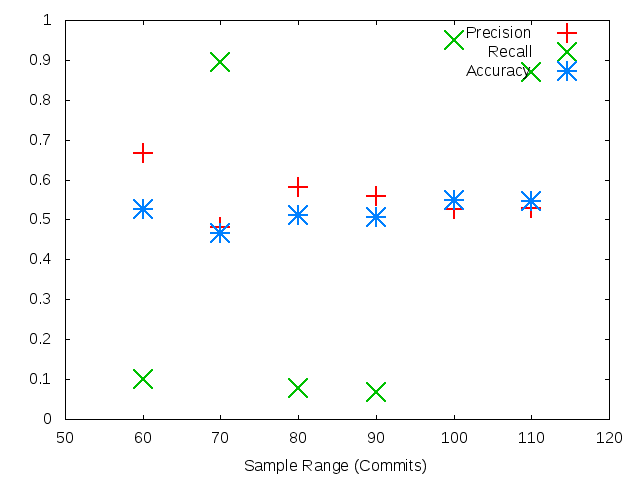
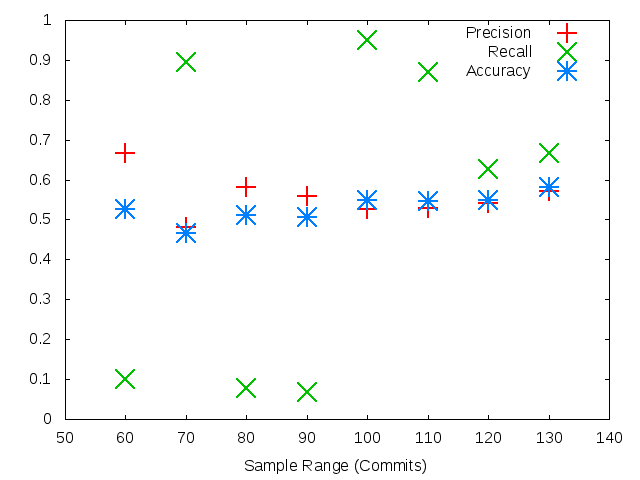
Updated images and added experiment 3
Fixed images that were already in the paper that were inconsistent. The rane is now from 60-130 with intervals of 10 standard for each experiment in the first two experiment sections. Also added the images for experiment 3.

diff --git a/src/experiments.tex b/src/experiments.tex
@@ -398,7 +398,7 @@ The experiment is setup to have a set of parameters that can be set. These param
 
 %TODO fill out details of experiments
 
-For this experiment the variable was the size of the \gls{swr} in commits. In \autoref{tab:window_range_experiment_features}, the features used by the prediction model are outlined. Features with a mark, $\bullet$, are used while those without are not. In this experiment only the Short $\Delta_{freq}$ is not used while all the rest are.
+For this experiment the variable was the size of the \gls{swr} in commits. In \autoref{tab:svm_window_range_experiment_features}, the features used by the prediction model are outlined. Features with a mark, $\bullet$, are used while those without are not. In this experiment only the Short $\Delta_{freq}$ is not used while all the rest are.
 
 % TODO use a better way of showing this like a table with dots.
 \begin{table}[h]
@@ -411,7 +411,7 @@ For this experiment the variable was the size of the \gls{swr} in commits. In \a
         $\bullet$ & $\bullet$ & $\bullet$ & $\bullet$ & & $\bullet$ & $\bullet$ & $\bullet$ \\ \hline
     \end{tabular}
     \caption{\gls{swr} Experiment Features}
-    \label{tab:window_range_experiment_features}
+    \label{tab:svm_window_range_experiment_features}
 \end{center}
 
 \end{table}
@@ -426,7 +426,7 @@ For this experiment the variable was the size of the \gls{swr} in commits. In \a
 % SVM gamma: 8
 % SVM esp: 0.001
 
-As noted above the independent variable for this experiment is the \gls{swr}. The remaining parameters for the experiment are constant for each test. The parameters for this experiment are outlined in \autoref{tab:window_range_experiment_setup}.
+As noted above the independent variable for this experiment is the \gls{swr}. The remaining parameters for the experiment are constant for each test. The parameters for this experiment are outlined in \autoref{tab:svm_window_range_experiment_setup}.
 
 \begin{table}[h]
 \begin{center}
@@ -438,7 +438,7 @@ As noted above the independent variable for this experiment is the \gls{swr}. Th
         No & No & Yes & $100\%$ & 5 & 10 & 8 \\ \hline
     \end{tabular}
     \caption{\gls{swr} Experiment Setup}
-    \label{tab:window_range_experiment_setup}
+    \label{tab:svm_window_range_experiment_setup}
 \end{center}
 
 \end{table}
@@ -465,7 +465,6 @@ The results for the experiments are shown with the precision, recall and accurac
     \centering
 
     \begin{minipage}[b]{0.45\linewidth}
-        % add 120, 130
         \includegraphics[width=1.0\textwidth]{images/svm/test_1/fresco_sample_range}
         \caption{\gls{swr} for fresco using \gls{svm}}
         \label{fig:test_1_fresco_svm}
@@ -480,7 +479,6 @@ The results for the experiments are shown with the precision, recall and accurac
 
 \begin{figure}[h]
     \centering
-    %TODO add 130
         \includegraphics[width=0.45\textwidth]{images/svm/test_1/deeplearning4j_sample_range}
     \caption{\gls{swr} for deeplearning4j using \gls{svm}}
     \label{fig:test_1_deeplearning4j_svm}
@@ -567,7 +565,6 @@ Finally, the recall for the prediction is very unstable. While both accuracy and
 
 % \begin{figure}[!ht]
 %     \centering
-
 %     \begin{minipage}[b]{0.45\linewidth}
 %         \includegraphics[width=1.0\textwidth]{images/svm/test_2/acra_sample_range}
 %         \caption{\gls{swr} for acra}
@@ -604,7 +601,96 @@ Finally, the recall for the prediction is very unstable. While both accuracy and
 %     \label{fig:test_2_deeplearning4j}
 % \end{figure}
 
+\subsection{Feature Set Experiments}
 
+
+\begin{table}[h]
+\begin{center}
+
+    \begin{tabular}{|c|c|c|c|c|c|cc|}
+        \hline
+        Extended & Over & Under & Sample & Window & \gls{swr} & SVM & \\
+        Window & Sampling & Sampling & Rate & Offset &  & C & gamma \\ \hline
+        No & No & Yes & $100\%$ & 5 & 90 & 10 & 8 \\ \hline
+    \end{tabular}
+    \caption{\gls{swr} Experiment Setup}
+    \label{tab:svm_feature_experiment_setup}
+\end{center}
+
+\end{table}
+
+%% TODO create a table to show this information.
+% Extend Window: No% Sample by Commit Range: Yes
+% Over Sampling: No
+% Under Sampling: Yes
+% Sample Rate: 100%
+% Window Offset: 5
+% SVM c: 10
+% SVM gamma: 8
+% SVM esp: 0.001
+
+%The parameter for this experiment are outlined in \autoref{tab:window_range_experiment_setup}. The major difference between the \gls{svm} and this experiment, \gls{rf}, is the parameters used for the \gls{rf}. This allows for a fairly clear comparison between these two methods with the given independent variable, sample window size.
+
+\begin{table}[h]
+\begin{center}
+
+    \begin{tabular}{|c|c|c|c|c|c|c|c|c|}
+        \hline
+        Feature & Com & Sig & Name & $\Delta_{freq}$ & Short & $t_{i} - t_{i-1}$ & Length & Has \\
+        Set & & & & & $\Delta_{freq}$ & & & Next \\ \hline
+        1 & $\bullet$ & $\bullet$ & $\bullet$ & $\bullet$ & & $\bullet$ & $\bullet$ & $\bullet$ \\
+        2 & $\bullet$ & $\bullet$ & $\bullet$ & $\bullet$ & $\bullet$ & & $\bullet$ & $\bullet$ \\
+        3 & & $\bullet$ & $\bullet$ & $\bullet$ & & $\bullet$ & & $\bullet$ \\
+        4 & $\bullet$ & $\bullet$ & $\bullet$ & $\bullet$ & & $\bullet$ & & $\bullet$ \\
+        5 & $\bullet$ & $\bullet$ & $\bullet$ & $\bullet$ & & & & $\bullet$ \\ \hline
+        %6 & $\bullet$ & & & & $\bullet$ & $\bullet$ & $\bullet$ & \\ 
+    \end{tabular}
+    \caption{\gls{swr} Experiment Features}
+    \label{tab:svm_feature_experiment_sets}
+\end{center}
+
+\end{table}
+
+%The results for the experiments with the independent variable sample window size using random forest were mixed. Both acra in \autoref{fig:test_1_acra_rf} and dagger in \autoref{fig:test_1_dagger_rf} have strong prediction results. While the remainder of the projects; fresco in \autoref{fig:test_1_fresco_rf}, storm in \autoref{fig:test_1_storm_rf} and deeplearning4j in \autoref{fig:test_1_deeplearning4j_rf} did not perform as well. While the accuracy and precision were lower, the recall was very high.
+
+\begin{figure}[h]
+    \centering
+
+    \begin{minipage}[b]{0.45\linewidth}
+        \includegraphics[width=1.0\textwidth]{images/svm/test_3/acra_sample_range}
+        \caption{Feature for acra using \gls{svm}}
+        \label{fig:test_3_acra_svm}
+    \end{minipage}
+\quad
+    \begin{minipage}[b]{0.45\linewidth}
+        \includegraphics[width=1.0\textwidth]{images/svm/test_3/dagger_sample_range}
+        \caption{Feature for dagger using \gls{svm}}
+        \label{fig:test_3_dagger_svm}
+    \end{minipage}
+\end{figure}
+
+\begin{figure}[h]
+    \centering
+
+    \begin{minipage}[b]{0.45\linewidth}
+        \includegraphics[width=1.0\textwidth]{images/svm/test_3/fresco_sample_range}
+        \caption{Feature for fresco using \gls{svm}}
+        \label{fig:test_3_fresco_svm}
+    \end{minipage}
+\quad
+    \begin{minipage}[b]{0.45\linewidth}
+        \includegraphics[width=1.0\textwidth]{images/svm/test_3/storm_sample_range}
+        \caption{Feature for storm using \gls{svm}}
+        \label{fig:test_3_storm_svm}
+    \end{minipage}
+\end{figure}
+
+\begin{figure}[h]
+    \centering
+        \includegraphics[width=0.45\textwidth]{images/svm/test_3/deeplearning4j_sample_range}
+    \caption{Feature for deeplearning4j using \gls{svm}}
+    \label{fig:test_3_deeplearning4j_svm}
+\end{figure}
 
 % TODO add a few more experiments.
 
@@ -617,6 +703,7 @@ Finally, the recall for the prediction is very unstable. While both accuracy and
 \subsection{Factor}
 
 \subsection{Window Range Experiments}
+\label{sec:rf_swr_experiment}
 
 The independent variable for this set of experiments is the sample window size measured in commits. The candidate features are outlined in \autoref{tab:window_range_experiment_features}. Is the same as the first \gls{svm} experiment the candidate feature set.
 
@@ -645,7 +732,7 @@ The independent variable for this set of experiments is the sample window size m
 % SVM gamma: 8
 % SVM esp: 0.001
 
-The parameter for this experiment are outlined in \autoref{tab:window_range_experiment_setup}. The major difference between the \gls{svm} and this experiment, \gls{rf}, is the parameters used for the \gls{rf}. This allows for a fairly clear comparison between these two methods with the given independent variable, sample window size.
+The parameter for this experiment are outlined in \autoref{tab:rf_window_range_experiment_setup}. The major difference between the \gls{svm} and this experiment, \gls{rf}, is the parameters used for the \gls{rf}. This allows for a fairly clear comparison between these two methods with the given independent variable, sample window size.
 
 \begin{table}[h]
 \begin{center}
@@ -657,7 +744,7 @@ The parameter for this experiment are outlined in \autoref{tab:window_range_expe
         No & No & Yes & $100\%$ & 5 & 10000 \\ \hline
     \end{tabular}
     \caption{\gls{swr} Experiment Setup}
-    \label{tab:window_range_experiment_setup}
+    \label{tab:rf_window_range_experiment_setup}
 \end{center}
 
 \end{table}
@@ -668,7 +755,6 @@ The results for the experiments with the independent variable sample window size
     \centering
 
     \begin{minipage}[b]{0.45\linewidth}
-        % TODO add 130
         \includegraphics[width=1.0\textwidth]{images/rf/test_1/acra_sample_range}
         \caption{\gls{swr} for acra using \gls{rf}}
         \label{fig:test_1_acra_rf}
@@ -685,14 +771,12 @@ The results for the experiments with the independent variable sample window size
     \centering
 
     \begin{minipage}[b]{0.45\linewidth}
-        % TODO add 60
         \includegraphics[width=1.0\textwidth]{images/rf/test_1/fresco_sample_range}
         \caption{\gls{swr} for fresco using \gls{rf}}
         \label{fig:test_1_fresco_rf}
     \end{minipage}
 \quad
     \begin{minipage}[b]{0.45\linewidth}
-        % TODO add 60
         \includegraphics[width=1.0\textwidth]{images/rf/test_1/storm_sample_range}
         \caption{\gls{swr} for storm using \gls{rf}}
         \label{fig:test_1_storm_rf}
@@ -706,6 +790,100 @@ The results for the experiments with the independent variable sample window size
     \label{fig:test_1_deeplearning4j_rf}
 \end{figure}
 
+
+\subsection{Feature Set Experiments}
+
+\begin{table}[h]
+\begin{center}
+
+    \begin{tabular}{|c|c|c|c|c|c|c|}
+        \hline
+        Extended & Over & Under & Sample & Window & \gls{swr} & \gls{rf} \\
+        Window & Sampling & Sampling & Rate & Offset &  & Size \\ \hline
+        No & No & Yes & $100\%$ & 5 & 90 & 10000 \\ \hline
+    \end{tabular}
+    \caption{Candidate Feature Experiment Setup}
+    \label{tab:rf_feature_experiment_setup}
+\end{center}
+
+\end{table}
+
+%% TODO create a table to show this information.
+% Extend Window: No% Sample by Commit Range: Yes
+% Over Sampling: No
+% Under Sampling: Yes
+% Sample Rate: 100%
+% Window Offset: 5
+% SVM c: 10
+% SVM gamma: 8
+% SVM esp: 0.001
+
+%The parameter for this experiment are outlined in \autoref{tab:window_range_experiment_setup}. The major difference between the \gls{svm} and this experiment, \gls{rf}, is the parameters used for the \gls{rf}. This allows for a fairly clear comparison between these two methods with the given independent variable, sample window size.
+
+This experiment uses different sets of candidate feature to test to explore the available features. The remaining variables were kept constant to allow for the candidate feature sets to be viewed in isolation. These constants are provided in \autoref{rf_feature_experiment_setup}. The value of $90$ for \gls{swr} was selected based on the value being in the middle of the range experimented on for the previous experiment. The remaining variables are kept the same as the previous experiment in \autoref{sec:rf_swr_experiment}. 
+
+The candidate feature sets are outlined in \autoref{tab:rf_feature_experiment_sets}. Each set is assigned an index value to allow for easier reference later on. For the remainder of this section the experiment sets will be referenced using the assigned index. Therefore if feature set 3 is referenced then that refers to the candidate feature set in the third row.
+
+\begin{table}[h]
+\begin{center}
+
+    \begin{tabular}{|c|c|c|c|c|c|c|c|c|}
+        \hline
+        Feature & Com & Sig & Name & $\Delta_{freq}$ & Short & $t_{i} - t_{i-1}$ & Length & Has \\
+        Set & & & & & $\Delta_{freq}$ & & & Next \\ \hline
+        1 & $\bullet$ & $\bullet$ & $\bullet$ & $\bullet$ & & $\bullet$ & $\bullet$ & $\bullet$ \\
+        2 & $\bullet$ & $\bullet$ & $\bullet$ & $\bullet$ & $\bullet$ & & $\bullet$ & $\bullet$ \\
+        3 & & $\bullet$ & $\bullet$ & $\bullet$ & & $\bullet$ & & $\bullet$ \\
+        4 & $\bullet$ & $\bullet$ & $\bullet$ & $\bullet$ & & $\bullet$ & & $\bullet$ \\
+        5 & $\bullet$ & $\bullet$ & $\bullet$ & $\bullet$ & & & & $\bullet$ \\ \hline
+        %6 & $\bullet$ & & & & $\bullet$ & $\bullet$ & $\bullet$ & \\ 
+    \end{tabular}
+    \caption{Candidate Feature Sets}
+    \label{tab:rf_feature_experiment_sets}
+\end{center}
+
+\end{table}
+
+Generally the experiment results were not particularly strong. In \autoref{fig:test_3_acra_rf} the performance for candidate feature sets 1, 2, 3, 5 were all high and is the performs the best out of all the other projects. For dagger in \autoref{fig:test_3_dagger_rf} the result for candidate feature set 1 is high where as the rest are far worse. The remainder of the projects the accuracy and precision are less than $0.6$. In \autoref{fig:test_3_fresco_rf} and \autoref{fig:test_3_storm_rf} the recall is far more consistently high. However deeplearning4j has generally low results for accuracy, precision and recall.
+
+\begin{figure}[h]
+    \centering
+
+    \begin{minipage}[b]{0.45\linewidth}
+        \includegraphics[width=1.0\textwidth]{images/rf/test_3/acra_sample_range}
+        \caption{Feature for acra using \gls{rf}}
+        \label{fig:test_3_acra_rf}
+    \end{minipage}
+\quad
+    \begin{minipage}[b]{0.45\linewidth}
+        \includegraphics[width=1.0\textwidth]{images/rf/test_3/dagger_sample_range}
+        \caption{Feature for dagger using \gls{rf}}
+        \label{fig:test_3_dagger_rf}
+    \end{minipage}
+\end{figure}
+
+\begin{figure}[h]
+    \centering
+
+    \begin{minipage}[b]{0.45\linewidth}
+        \includegraphics[width=1.0\textwidth]{images/rf/test_3/fresco_sample_range}
+        \caption{Feature for fresco using \gls{rf}}
+        \label{fig:test_3_fresco_rf}
+    \end{minipage}
+\quad
+    \begin{minipage}[b]{0.45\linewidth}
+        \includegraphics[width=1.0\textwidth]{images/rf/test_3/storm_sample_range}
+        \caption{Feature for storm using \gls{rf}}
+        \label{fig:test_3_storm_rf}
+    \end{minipage}
+\end{figure}
+
+\begin{figure}[h]
+    \centering
+        \includegraphics[width=0.45\textwidth]{images/rf/test_3/deeplearning4j_sample_range}
+    \caption{Feature for deeplearning4j using \gls{rf}}
+    \label{fig:test_3_deeplearning4j_rf}
+\end{figure}
 
 \subsection{Random Forest Discussion}
 \label{subsec:rf_discussion}
